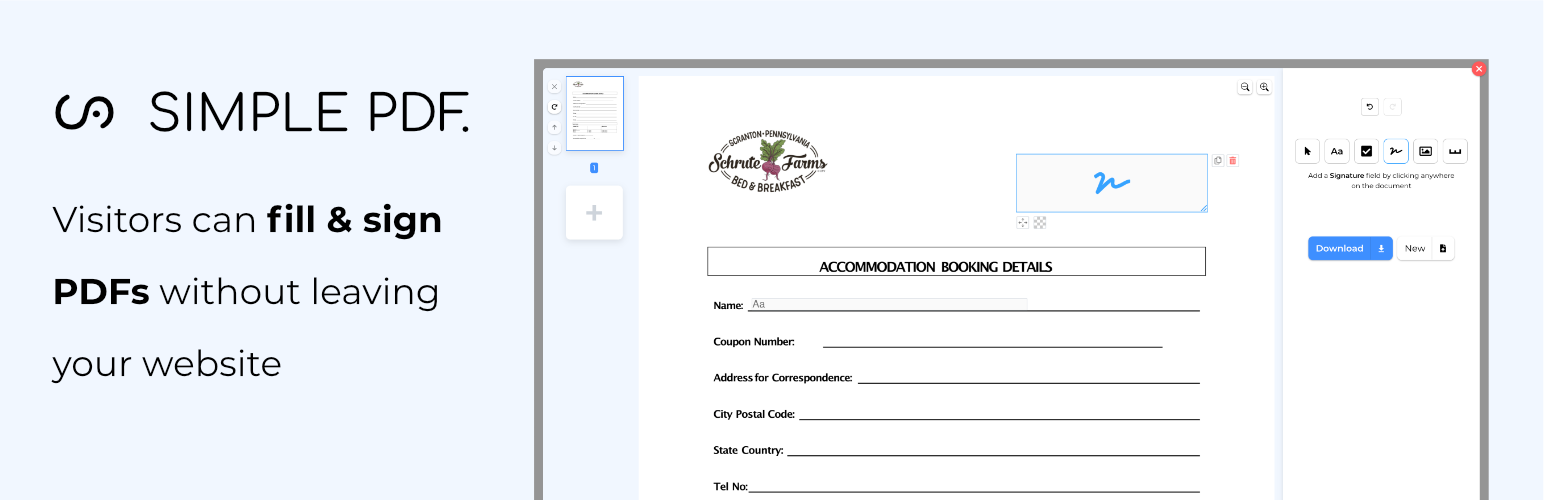
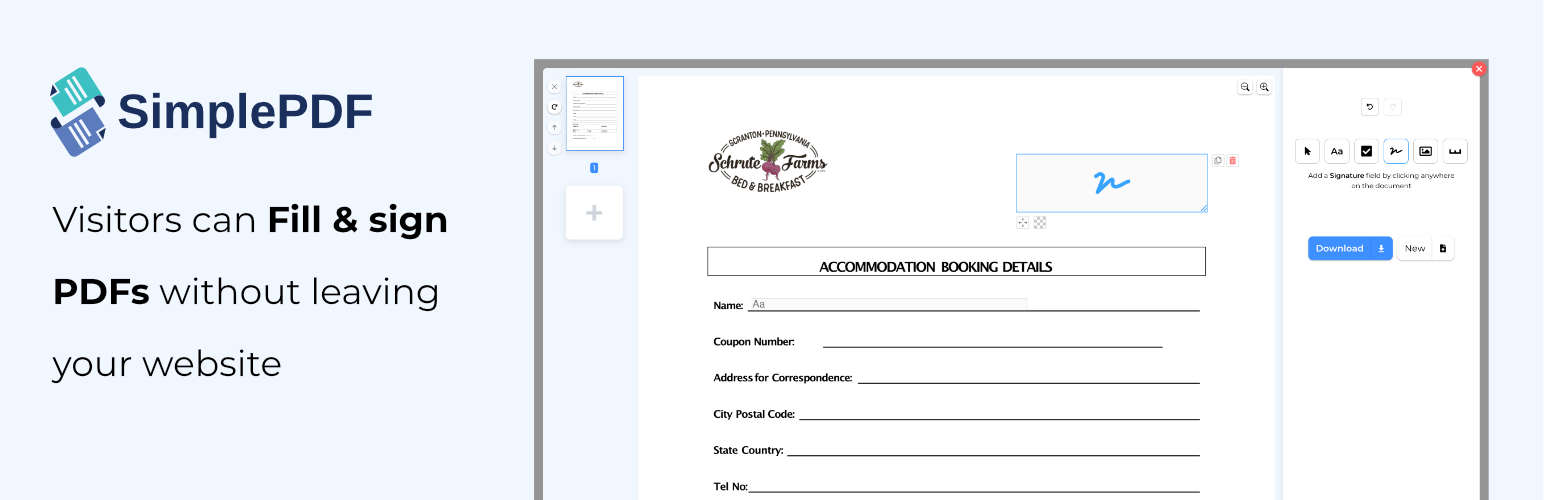
feat: update settings and dependencies (#15)
## Changes

- Update `@simplepdf/web-embed-pdf` to the latest version (1.8.2)
- Simplify the settings page: PDFs are now automatically opened with
SimplePDF rather than having a checkbox: disabling the plugin achieves
the same behaviour, hence dropping the unnecessary friction point.
- Improve the copy
- Update the branding

Changed region(s): [[0.0311, 0.12, 0.3109, 0.33], [0.1554, 0.39, 0.3109, 0.48]]

diff --git a/wordpress/README.md b/wordpress/README.md
@@ -16,9 +16,13 @@ svn checkout https://plugins.svn.wordpress.org/simplepdf-embed svn
 ```
 wp_enqueue_script('simplepdf-web-embed-pdf', $script_src, array(), '<VERSION>', true);
 ```
-2. Run the following
 
-_Make sure to update TAG in [simplepdf-embed.php](./svn/trunk/simplepdf-embed.php), in [README.txt](./svn/trunk/README.txt) and in [blueprint.json](./svn/assets/blueprints/blueprint.json)_
+2. Update the TAG / version in [simplepdf-embed.php](./svn/trunk/simplepdf-embed.php)
+3. Update the TAG / version in [README.txt](./svn/trunk/README.txt)
+4. Update the TAG / version in [blueprint.json](./svn/assets/blueprints/blueprint.json)
+5. Update changelog in [README.txt](./svn/trunk/README.txt)
+6. Run the following
+
 ```bash
 npm run package-plugin
 cd svn
